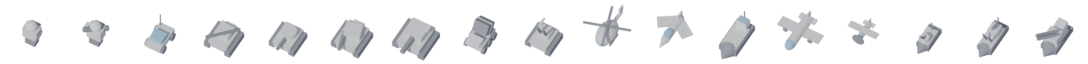
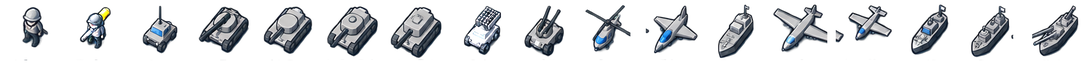
Ship real unit art: 17 units cropped from the user's reference sheet
PNG is the live pipeline now, not SVG - CLAUDE.md rule 8 and the commands
section are rewritten to say so. art/blender/ and art/svg/ stay in the repo
as reference but are no longer what produces client/assets/units/.

The source is art/png/reference_sheet.png, a mockup the user supplied
showing all 17 units in two colourways (neutral, red) at roughly 90px per
cell on a transparent page. It was not exportable as separate files, so
getting individual sprites out of it meant finding the actual grid rather
than assuming one:

  - Section panels and header bars were located by scanning for solid-colour
    bands and their horizontal extent.
  - Columns were NOT evenly spaced - a helicopter's rotor or a transport
    ship's mast pushes neighbouring art off an even 17-way split, confirmed
    by overlaying an even grid and watching it drift by "Bomber". Columns
    were instead cut at the midpoints between each unit's text-label
    centroid, since labels are compact and don't overlap the way vehicle
    art does.
  - Row bands (icon vs. label, x2 for the two colourways) were found the
    same way, via per-row alpha activity.

Each crop turned out to already have clean per-pixel alpha at the cell
level - no card-background halo to strip, contrary to what an earlier,
more pessimistic read of the file predicted. What did need fixing: cropping
each colourway to its own tight bounding box left the neutral and red
[…]

Changed region(s): [[0.0, 0.0938, 1.0, 0.9375]]

diff --git a/CLAUDE.md b/CLAUDE.md
@@ -98,20 +98,36 @@ layout of the code, so keep them that way.
    rejections rather than dying. Never add an `async` event listener without
    a `.catch`.
 
-8. **Art is generated, and its source is text.** Unit sprites are rendered
-   from `art/blender/models.py` by `tools/render-sprites.sh` into
-   `client/assets/units/`, which is committed - you can build and play
-   without Blender installed. Never edit the sheet, the mask or the manifest
-   by hand; change the model and re-render, and `--check` will confirm the
-   two still agree.
+8. **Unit art comes from PNG source, and `client/assets/units/` is generated
+   from it.** The current sheet is built by `art/png/build_sheet.py` from
+   the per-unit PNGs in `art/png/units/`, and the sheet, mask and manifest
+   it writes are committed - you can build and play without regenerating
+   anything. Never edit the sheet, the mask or the manifest by hand; change
+   the source PNG and rebuild.
 
-   One sheet serves every faction: it is rendered in neutral grey with a
-   companion mask, and the client tints through the mask
-   (`client/shaders/team_tint.gdshader`). Adding a faction is a colour in
-   `BoardTheme.SLOT_COLORS`, not another ten renders - so do not add a
+   `art/blender/` (procedural, driven by `tools/render-sprites.sh`) and
+   `art/svg/` (hand-drawn vector) are earlier pipelines, kept for reference
+   and not currently used to produce the shipped sheet. Do not extend them
+   without being asked - PNG is the live path.
+
+   One sheet serves every faction: units are painted in a neutral tone, a
+   companion mask says which pixels take the faction colour, and the client
+   tints through that mask at runtime (`client/shaders/team_tint.gdshader`).
+   The mask can come from an explicit `_mask.png` per unit or, when a set
+   already exists in two colours, by diffing the two
+   (`build_sheet.py --diff-suffix`). Adding a faction is a colour in
+   `BoardTheme.SLOT_COLORS`, not another seventeen files - so never add a
    per-faction sheet.
 
-   Everything under `art/` must be original geometry. A mesh from an asset
+   The neutral tone matters mechanically, not just visually: the shader
+   tints by multiplying, so a near-black pixel in the masked region stays
+   near-black under every faction colour - the tint becomes invisible where
+   the art is too dark. Keep team-coloured areas in a light-to-mid tone;
+   `sprite_preview` catches the failure (`only N of M solidly masked pixels
+   tinted`) but the fix is in the art, not the pipeline.
+
+   Everything under `art/` must be original - drawn, modelled, or generated
+   by or for this project. A mesh, sprite, or image traced from an asset
    library or another game carries its licence into the sprite and into this
    repository; that is the hard rule above, not a preference.
 
@@ -181,8 +197,14 @@ tools/live-check.sh
 tools/live-check.sh --tls   # the same, over wss:// with a generated cert
 tools/dev-cert.sh           # a self-signed cert for local wss:// testing
 
-# Unit art. Needs Blender on the PATH; the sheet is committed, so this is
-# only for changing it. See art/README.md.
+# Unit art - the live path. One PNG per unit in art/png/units/, an
+# explicit _mask.png or a --diff-suffix colourway to say which pixels take
+# the faction colour. The sheet is committed, so this is only for changing
+# it. See art/png/README.md.
+art/png/build_sheet.py <output dir> --diff-suffix red
+
+# Unit art - the earlier procedural path (Blender). Not currently used to
+# produce the shipped sheet; kept for reference. See art/README.md.
 tools/render-sprites.sh
 tools/render-sprites.sh --check     # fail if the committed sheet is stale
 tools/render-sprites.sh --preview   # a magnified look, into .preview/

diff --git a/docs/ROADMAP.md b/docs/ROADMAP.md
@@ -56,14 +56,19 @@ finished models, terrain art, more maps, and a campaign.
 
 Sizes, formats and the checks that reject bad art are in `docs/ART_SPEC.md`.
 
-- [x] A sprite pipeline: models in `art/blender/`, rendered by
-      `tools/render-sprites.sh` into a sheet plus a faction mask, tinted on
-      the client through one shader. Proven end to end and checked
-      (`sprite_check`, `sprite_preview`, `--check`). See `art/README.md`.
-- [ ] Replace the blockout models with finished unit art. The plumbing is
-      done and every check around it stays as it is; what remains is the
-      modelling itself, which is the part that genuinely cannot be
-      scaffolded. Two factions come free - they are a colour, not a render.
+- [x] A sprite pipeline: two of them now. `art/blender/` (procedural) was
+      first; `art/png/build_sheet.py` (real PNG art in, sheet plus a
+      faction mask out) is what ships today. Both feed the same tint
+      shader and the same checks (`sprite_check`, `sprite_preview`,
+      `--check`). See `art/png/README.md`.
+- [x] Finished unit art for all 17 units, two colourways (the rest of the
+      faction palette is free - it's a shader tint, not a render). Built
+      from a reference sheet the user supplied
+      (`art/png/reference_sheet.png`); see the commit history in `art/png/` for how
+      it was cropped, aligned and verified. Two units needed a real fix:
+      their neutral tone was dark enough that the multiplicative tint
+      shader couldn't move it, so team colour barely showed - see rule 8
+      in `CLAUDE.md` for why, and keep new art out of that trap.
 - [ ] Terrain and building art. Deliberately *not* through Blender: tiles
       have to sit seamlessly beside each other, which is easier to author
       directly than to render. One 1584x48 sheet as things stand; give it a
